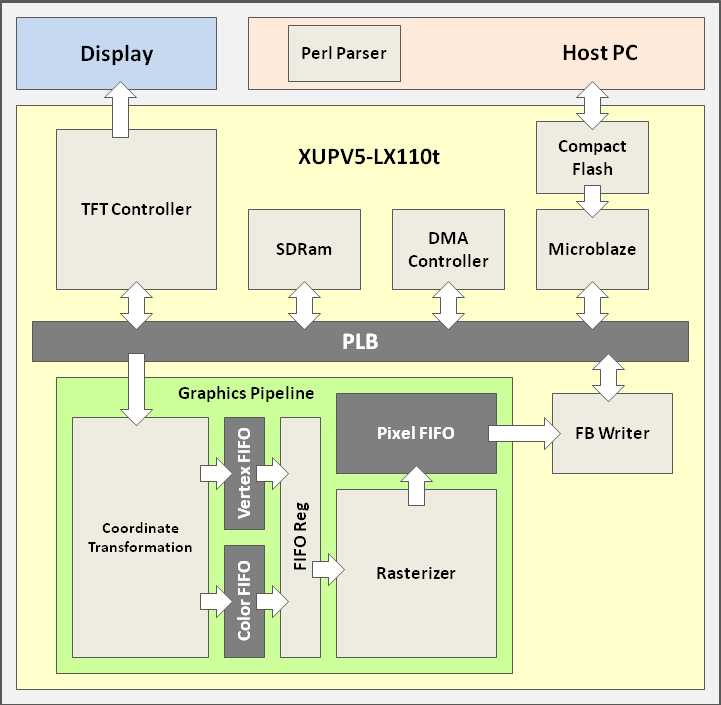
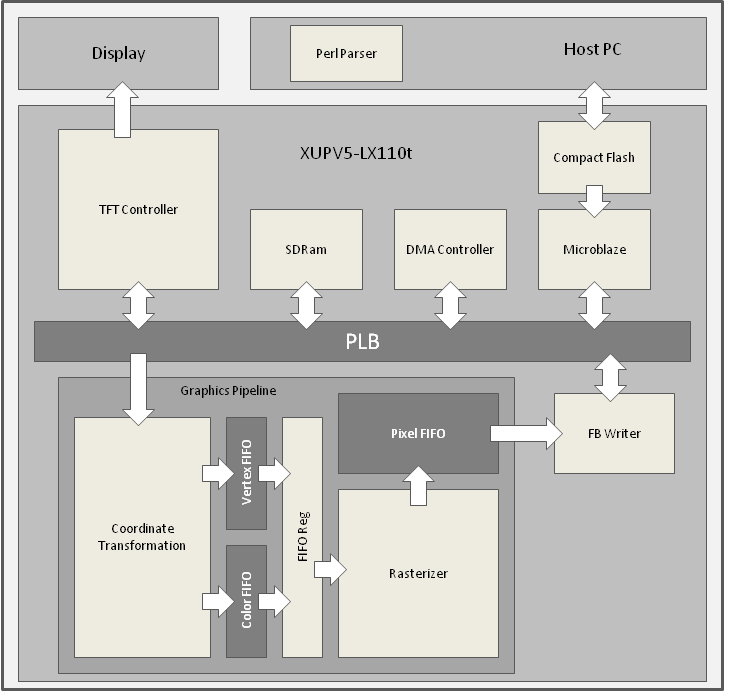
coordinate atransform figure

diff --git a/doc/Final Report/final_report.tex b/doc/Final Report/final_report.tex
@@ -206,7 +206,7 @@ Function & Type & Data & Opcode \\ \hline
 
 \section{Fetch and Decode}
 \subsection{Instruction Cache}
-The instruction cache consists of 512 entries of 32-bit words and supports 5 reads and 1 write - concurrently serving the fetch, decode, and instruction assembler through a BRAM controller on the PLB. It is currently implemented in logic, with a combinational read. Further work would be needed to move the instruction cache into block RAM, requiring a clocked read.
+The instruction cache consists of 512 entries of 32-bit words and supports 5 reads and 1 write - concurrently serving the fetch, decode, and instruction assembler through a BRAM controller on the PLB. The BRAM interface is the same as the BRAM specified by Xilinx so that we could utilize the BRAM PLB interface provided by Xilinx. It is currently implemented in logic, with a combinational read. Further work would be needed to move the instruction cache into block RAM, requiring a clocked read.
 
 \begin{figure}[h!]
 \begin{center}
@@ -228,12 +228,18 @@ The decode unit generates control signals for the matrix stacks, matrix multipli
 The pipeline implements two 16x16 matrix stacks - one for Modelview matrices, one for Projection matrices. The bottom of each stack is initialized to the identity matrix by default, with the stack pointer initialized to point at the bottom. The matrix stacks are currently implemented in logic to support combinational reads, but could be moved to BRAM fairly easily. 
 
 \subsection{Matrix Multiply}
-Since the coordinate transformation takes relatively short amount of time when compared to the rasterizer, the decision was made to utilize less floating point units and allow a matrix multiply to take 4 cycles per row, or 16 cycles for a 4x4 x 4x4 multiply. Matrices are updated 1 row at a time, with a row update module that utilizes 4 floating point multipliers and 3 floating point adders. The fetch unit is stalled while a matrix multiply occurs, since most of the supported functions utilize the matrix stacks. Because each vertex is multiplied by both the Modelview and Projection matrices, this means that each call to \verb!glVertex! takes 32 cycles on the coordinate transform clock.
-
+Since the coordinate transformation takes relatively short amount of time when compared to the rasterizer, the decision was made to utilize less floating point units and allow a matrix multiply to take 4 cycles per row, or 16 cycles for a 4x4 x 4x4 multiply. Matrices are updated 1 row at a time, with a row update module that utilizes 4 floating point multipliers and 3 floating point adders. The fetch unit is stalled while a matrix multiply occurs, since most of the supported functions utilize the matrix stacks. Because each vertex is multiplied by both the Modelview and Projection matrices, this means that each call to \verb!glVertex! takes 32 cycles on the coordinate transform clock. The decision was made to allow the coordinate transformation to stall during matrix operations because the rasterization unit performs much more work for each set of vertices, and thus would be stalling the coordinate transform pipeline anyway.
 
 
 \section{Coordinate Transformation}
-Each vertex (consisting of 3 floating point numbers corresponding to x, y, z coordinates) that gets passed into Coordinate Transformation goes through a series of transformations so that it ends up in the correct range to be displayed on the screen. The resulting vertices and their corresponding colors are pushed into a dual clocked FIFO.
+The coordinate transformation pipeline utilizes homogenous coordinates to perform the transformations. The rotation, translation, and scaling matrices are pre-calculated by the Perl parser, so they are carried out as matrix multiplies by the pipeline. Each vertex (consisting of 3 floating point numbers corresponding to x, y, z coordinates) that gets passed into Coordinate Transformation goes through a series of transformations so that it ends up in the correct range to be displayed on the screen. The resulting vertices and their corresponding colors are pushed into a dual clocked FIFOs that sit in front of the rasterization unit. A flush signaled by a call to \verb!glFlush! is encoded as a vertex with \verb!0xFFFFFFFF! as its x,y,z coordinates.
+\begin{figure}[h!]
+\begin{center}
+\includegraphics[scale=.80]{coordinate_transform.png}
+\end{center}
+\caption{Coordinate Transformation}
+\label{fig:coordinate_transform}
+\end{figure}
 
 \subsection{Eye Coordinates}
 The incoming vertex is multiplied by the modelview matrix to produce \emph{eye coordinates}. The modelview matrix is a the combination of the model and view matrices. Since there is no separate camera in OpenGL, the scene must be transformed by the inverse of the view transformation to simulate moving the camera.\\
@@ -396,7 +402,7 @@ Operating system that existed on the lab machine and had a licensed installation
 \subsection{Ubuntu}
 Initially, wanted machine to be primary machine for development.  Unfortunately, the usb drivers for the JTAG cable never came into fruition, so board programming was relegated to the Windows machine.  Much of the simulation and core development still happened on the Ubuntu box.  Also held a git repository that was later moved to github.  It was used as an easy way to transfer files between group members because Windows networked file system is unusable.  
 
-\section{Testing Methology}
+\section{Testing Methodology}
 Our testing methodology consisted of a combination of simulation, hardware analyzer, and a little bit of trial and error.
 
 \subsection{Unit Testing}
@@ -420,14 +426,18 @@ CoreGEN allows us to generate different types of modules.  It is a tool provided
 
 \section{Individual Contributions}
 \subsection{Andrew Lau}
-My primary responsibilities for this project were the implementation of the vertex transformation pipeline and the integration and testing of the various parts of the pipeline. As the only team member who had taken Computer Graphics, much of the graphics design was deferred to me. The first few weeks of the project were spent working closely with Alan to design the front end of the pipeline, specifically how to use GLSim to talk to the pipeline. This idea was quickly squashed as we found that GLSim was deprecated and had not been updated since 2002. The next few weeks were spent designing the ISA, looking for suitable floating point units, investigating alternatives to GLSim, which included Mesa. We ultimately decided to write a primitive Perl script that would parse OpenGL calls and assemble the byte code.
+My primary responsibilities for this project were the implementation of the vertex transformation pipeline and the integration and testing of the various parts of the pipeline. As the only team member who had taken Computer Graphics, much of the graphics design was deferred to me. 
+
+The first few weeks of the project were spent working closely with Alan to design the front end of the pipeline, specifically how to use GLSim to talk to the pipeline. This idea was quickly squashed as we found that GLSim was deprecated and had not been updated since 2002. The next few weeks were spent designing the ISA, looking for suitable floating point units for use in the pipeline, and investigating alternatives to GLSim, which included Mesa. We ultimately decided to write a primitive Perl script that would parse OpenGL calls and assemble the byte code.
 
 Alan and I worked closely to develop the matrix multiply and matrix stack control modules. These modules implement the 4x4 x 4x4 and 4x4 x 1x4 matrix multiply functionality as well as read in the operands from the correct places. I also wrote the testbenches for these modules, and tested them in simulation to verify correctness.
 
 I was mainly responsible for the coordinate transformation pipeline, as well as the fetch, decode units. The remainder of the semester was spent implementing, testing and integrating this part with the other parts of the pipeline.
 
+In terms distribution of work goes, I feel like the project was divided along very natural boundaries that ended up dividing the work pretty evenly as well. 
+
 \subsection{Alan Zhu}
-My responsibilities consisted of implementing the Perl parser, designing and implementing the matrix multiply and matrix stack units, and designing and implementing the rasterizerization module.
+My responsibilities consisted of implementing the Perl parser, designing and implementing the matrix multiply and matrix stack units, and designing and implementing the rasterization module.
 
 At the beginning of the project, I worked closely with Andrew in attempting to us the GLSim frontend to communicate to the pipeline. After a short period of successive failures and finally accepting that the already-broken source code had been sitting in the dust for 8 years, we decided do build everything from the ground up, which would start with implementing our own instruction set that would reflect a primitive version of basic OpenGL commands. 
 
